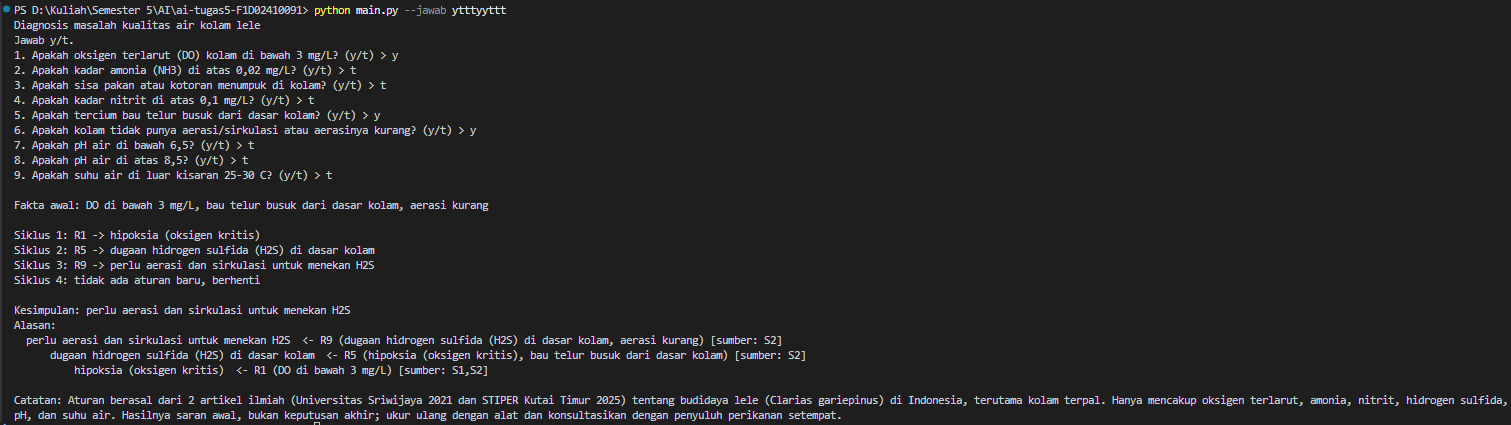
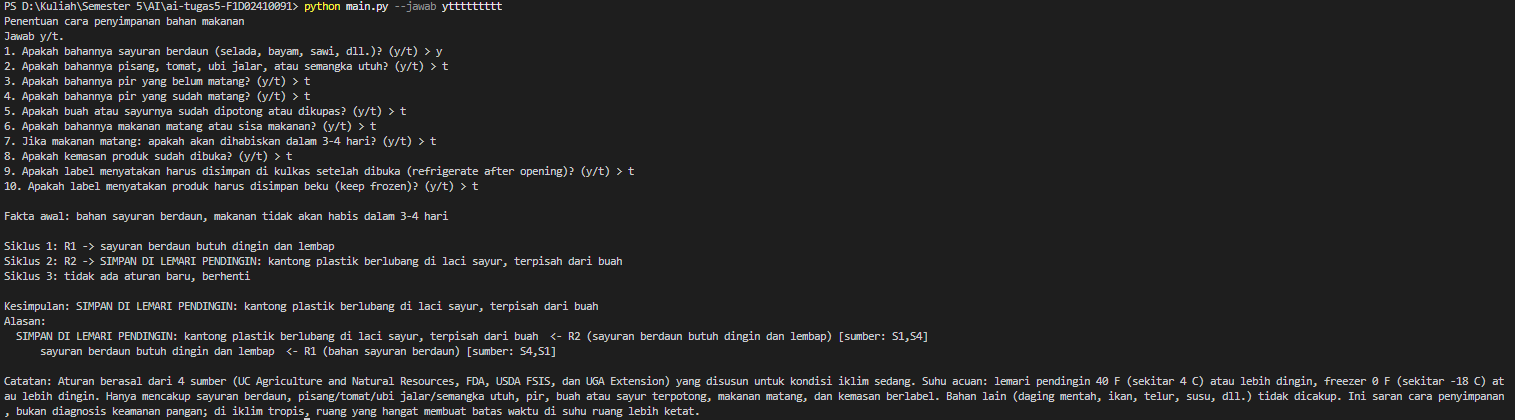
Penentu Cara Penyimpanan Bahan Makanan

Changed region(s): [[0.0, 0.0, 0.4044, 0.681], [0.0, 0.7119, 1.0, 1.0]]

diff --git a/uji.py b/uji.py
@@ -1,16 +1,30 @@
 from main import muat_kb, forward_chaining, kesimpulan_akhir
 
-kb = muat_kb("kb_lele.json")
+kb = muat_kb("kb_penyimpanan.json")
 
+LEMARI = "SIMPAN DI LEMARI PENDINGIN"
 KASUS = [
-    ("1 rantai 3 tingkat (H2S)", ["DO di bawah 3 mg/L", "bau telur busuk dari dasar kolam", "aerasi kurang"],
-     {"perlu aerasi dan sirkulasi untuk menekan H2S"}),
-    ("2 negatif (fakta ada, tidak ada aturan cocok)", ["sisa pakan menumpuk", "aerasi kurang"], set()),
-    ("3 amonia + hipoksia", ["DO di bawah 3 mg/L", "amonia di atas 0,02 mg/L", "sisa pakan menumpuk"],
-     {"amonia berasal dari sisa pakan dan limbah ikan", "kondisi kritis, ikan berisiko stres dan mati"}),
-    ("4 nitrit", ["nitrit di atas 0,1 mg/L"], {"nitrit berbahaya"}),
-    ("5 mode atau (pH tinggi)", ["pH di atas 8,5"], {"pH di luar batas ideal"}),
-    ("6 suhu", ["suhu di luar 25-30 C"], {"suhu di luar batas ideal"}),
+    ("1 sayuran berdaun (rantai R1->R2)", ["bahan sayuran berdaun"],
+     {"SIMPAN DI LEMARI PENDINGIN: kantong plastik berlubang di laci sayur, terpisah dari buah"}),
+    ("2 negatif (bahan tidak dicakup)", ["makanan tidak akan habis dalam 3-4 hari"], set()),
+    ("3 makanan matang, tidak habis 4 hari", ["bahan makanan matang atau sisa makanan", "makanan tidak akan habis dalam 3-4 hari"],
+     {"SIMPAN DI FREEZER: wadah tertutup dangkal, bagi dalam porsi kecil"}),
+    ("4 makanan matang, habis 4 hari", ["bahan makanan matang atau sisa makanan", "makanan akan habis dalam 3-4 hari"],
+     {"SIMPAN DI LEMARI PENDINGIN: wadah tertutup dangkal, habiskan dalam 3-4 hari"}),
+    ("5 pisang", ["bahan pisang, tomat, ubi jalar, atau semangka utuh"],
+     {"SIMPAN DI SUHU RUANG: jauhkan dari sinar matahari langsung, jangan di kulkas"}),
+    ("6 pir belum matang", ["bahan pir belum matang"],
+     {"SIMPAN DI SUHU RUANG sampai matang, jauhkan dari sinar matahari langsung"}),
+    ("7 pir sudah matang", ["bahan pir sudah matang"], {LEMARI + " dan pakai dalam 1-3 hari"}),
+    ("8 terpotong", ["buah atau sayur sudah dipotong atau dikupas"],
+     {LEMARI + " segera setelah dipotong atau dikupas"}),
+    ("9 kemasan dibuka + label kulkas", ["kemasan sudah dibuka", "label menyatakan simpan di kulkas setelah dibuka"],
+     {LEMARI + " sesuai label setelah kemasan dibuka"}),
+    ("10 label simpan beku", ["label menyatakan simpan beku"], {"SIMPAN DI FREEZER sesuai label (simpan beku)"}),
+    ("11 dua kesimpulan (daun + terpotong)", ["bahan sayuran berdaun", "buah atau sayur sudah dipotong atau dikupas"],
+     {"SIMPAN DI LEMARI PENDINGIN: kantong plastik berlubang di laci sayur, terpisah dari buah",
+      LEMARI + " segera setelah dipotong atau dikupas"}),
+    ("12 kemasan dibuka tanpa label kulkas (tidak ada kesimpulan)", ["kemasan sudah dibuka"], set()),
 ]
 
 gagal = 0

diff --git a/main.py b/main.py
@@ -46,27 +46,40 @@ def cetak_alasan(fakta, asal, indent=2):
             cetak_alasan(s, asal, indent + 4)
 
 
+
 def tanya_user(pertanyaan, jawaban_otomatis=None):
     fakta = []
+
     print("Jawab y/t.")
-    for i, (teks, tanya) in enumerate(pertanyaan.items(), 1):
+
+    for i, item in enumerate(pertanyaan, 1):
+        tanya = item["tanya"]
+
         while True:
             if jawaban_otomatis:
                 j = jawaban_otomatis[i - 1].lower()
                 print(f"{i}. {tanya} (y/t) > {j}")
             else:
                 j = input(f"{i}. {tanya} (y/t) > ").strip().lower()
+
             if j in ("y", "t"):
                 break
+
             print("   Ketik y atau t.")
-        if j == "y":
-            fakta.append(teks)
+
+        if j == "y" and "ya" in item:
+            fakta.append(item["ya"])
+
+        elif j == "t" and "tidak" in item:
+            fakta.append(item["tidak"])
+
     return fakta
+
 
 
 def main():
     ap = argparse.ArgumentParser()
-    ap.add_argument("--kb", default="kb_lele.json")
+    ap.add_argument("--kb", default="kb_penyimpanan.json")
     ap.add_argument("--jawab", help="string y/t, satu huruf per pertanyaan")
     args = ap.parse_args()
 

diff --git a/README.md b/README.md
@@ -1,59 +1,57 @@
-# Tugas 5 Kecerdasan Buatan: Sistem Pakar Kualitas Air Kolam Lele
+# Tugas 5 Kecerdasan Buatan: Sistem Pakar Penentuan Cara Penyimpanan Bahan Makanan
 
 - **Nama:** Rival Hosam Wilmadani
 - **NIM:** F1D02410091
 
 ## 1. Topik dan cara menjalankan
 
-Topik: **diagnosis masalah kualitas air kolam lele** (oksigen terlarut, amonia, nitrit, hidrogen sulfida, pH, suhu).
-Program membaca file aturan `kb_lele.json`, menanyakan fakta ke pengguna, lalu menyimpulkan dengan *forward chaining* yang mesinnya ditulis sendiri (`main.py`).
+Topik: **menentukan cara penyimpanan bahan makanan** (suhu ruang, lemari pendingin, atau freezer) berdasarkan jenis bahan, kondisi bahan, dan label kemasan. Fokusnya cara penyimpanan, bukan diagnosis keamanan pangan.
+Program membaca file aturan `kb_penyimpanan.json`, menanyakan fakta ke pengguna, lalu menyimpulkan dengan *forward chaining* yang mesinnya ditulis sendiri (`main.py`).
 
 - Bahasa: Python 3.8 ke atas, tanpa library tambahan (hanya `json` dan `argparse`).
-- Menjalankan (interaktif): `python main.py`
-- Menjalankan dengan jawaban otomatis (9 huruf y/t, urut sesuai pertanyaan): `python main.py --jawab ytttyyttt`
+- Menjalankan (interaktif, di terminal): `python main.py`
+- Menjalankan dengan jawaban otomatis: `python main.py --jawab ytttttttt` (satu huruf y/t per pertanyaan yang ditanyakan)
 - Menjalankan kasus uji otomatis: `python uji.py`
 
-Struktur repository:
+Pertanyaan "habis dalam 3-4 hari?" hanya ditanyakan bila bahannya makanan matang, sehingga jumlah huruf pada `--jawab` bisa 9 atau 10.
 
-```
-kb_lele.json   file aturan + sumber
-main.py        mesin forward chaining + antarmuka
-uji.py         kasus uji otomatis
-screenshot/    bukti tangkapan layar
-README.md
-```
+Struktur repository: `kb_penyimpanan.json` (aturan + sumber + pertanyaan), `main.py` (mesin FC), `uji.py` (kasus uji), `screenshot/`, `README.md`.
 
 ## 2. Sumber
 
 | Kode | Judul | Penerbit | URL | Diakses |
 |---|---|---|---|---|
-| S1 | Kualitas air kolam budidaya dan kolam terpal untuk pertumbuhan ikan Lele Sangkuriang pada kelompok pembudidaya ikan Lele di Kabupaten PALI Sumatera Selatan (Patriono, Amalia, Sitia, 2021) | Sriwijaya Bioscientia 2(3):83-88, Jurusan Biologi, Universitas Sriwijaya | https://doi.org/10.24233/sribios.2.3.2021.378 | 8 Nov 2026 |
-| S2 | Efektivitas Bakteri Fotosintetik Rhobac dalam Meningkatkan Kualitas Air pada Budidaya Ikan Lele di Kolam Terpal (Haryasakti, Rudyanto, Kaharuddin, Wahyudi, 2025) | Jurnal Pertanian Terpadu 13(1):43-52, Sekolah Tinggi Pertanian Kutai Timur | https://ojs.stiperkutim.ac.id/index.php/jpt/article/download/610/296 | 8 Nov 2026 |
+| S1 | Storing Fresh Fruits and Vegetables for Better Taste (Kader, Thompson, Sylva, Harris) | UC Agriculture and Natural Resources, Publication #21590 | https://ucanr.edu/sites/default/files/2011-07/115275.pdf | 13 Nov 2026 |
+| S2 | Refrigerator Thermometers: Cold Facts about Food Safety (FDA Facts, Januari 2017) | U.S. Food and Drug Administration | https://www.fda.gov/media/80676/download | 13 Nov 2026 |
+| S3 | Keep Food Safe! Food Safety Basics (lembar fakta; salinan arsip) | USDA Food Safety and Inspection Service, via UNT Web Archive | https://webarchive.library.unt.edu/web/20121014010316/http:/www.fsis.usda.gov/Fact_Sheets/Keep_Food_Safe_Food_Safety_Basics/index.asp | 13 Nov 2026 |
+| S4 | Quick Storage Guide for Vegetable Crops (Deltsidis), Circular 1205 | University of Georgia Cooperative Extension | https://fieldreport.caes.uga.edu/publications/C1205/quick-storage-guide-for-vegetable-crops/ | 13 Nov 2026 |
 
 ## 3. Tabel aturan
 
-`dan` = semua syarat harus ada, `atau` = salah satu cukup. Fakta yang tidak pernah menjadi hasil aturan ditanyakan ke pengguna.
+`dan` = semua syarat harus ada, `atau` = salah satu cukup. Fakta yang tidak pernah menjadi hasil aturan ditanyakan ke pengguna (jawaban "y" atau "t" menghasilkan fakta yang ditulis pada bagian `pertanyaan` di file aturan).
 
 | Aturan | IF | THEN | Sumber | Dasar di sumber |
 |---|---|---|---|---|
-| R1 | DO di bawah 3 mg/L | hipoksia (oksigen kritis) | S1, S2 | DO di bawah 3 mg/L menyebabkan hipoksia (S2) dan menghambat pertumbuhan, stres, sampai kematian (S1) |
-| R2 | amonia di atas 0,02 mg/L | amonia berbahaya | S2 | batas aman amoniak di kolam terpal umumnya kurang dari 0,02 mg/L |
-| R3 | amonia berbahaya **AND** sisa pakan menumpuk | amonia berasal dari sisa pakan dan limbah ikan | S2 | amoniak muncul dari penguraian sisa pakan dan limbah metabolik ikan |
-| R4 | nitrit di atas 0,1 mg/L | nitrit berbahaya | S2 | kadar nitrit aman kurang dari 0,1 mg/L |
-| R5 | hipoksia (oksigen kritis) **AND** bau telur busuk dari dasar kolam | dugaan hidrogen sulfida (H2S) di dasar kolam | S2 | H2S berbau telur busuk dan terbentuk pada kondisi rendah oksigen/anaerob |
-| R6 | pH di bawah 6,5 **OR** pH di atas 8,5 | pH di luar batas ideal | S1, S2 | pH ideal 6,5-8,5 (S2); S1 mencatat pertumbuhan optimal pada pH 6,5-9,0 |
-| R7 | suhu di luar 25-30 C | suhu di luar batas ideal | S1, S2 | kisaran suhu 25-30 C (S2); S1 memuat kisaran sejenis (misalnya 26-31 C) |
-| R8 | hipoksia (oksigen kritis) **AND** amonia berbahaya | kondisi kritis, ikan berisiko stres dan mati | S1, S2 | masing-masing hipoksia dan amonia tinggi menyebabkan stres dan kematian; aturan ini menggabungkan keduanya |
-| R9 | dugaan hidrogen sulfida (H2S) di dasar kolam **AND** aerasi kurang | perlu aerasi dan sirkulasi untuk menekan H2S | S2 | H2S tinggi dapat diatasi dengan aerasi dan sirkulasi |
+| R1 | bahan sayuran berdaun | sayuran berdaun butuh dingin dan lembap | S4, S1 | sayuran berdaun disimpan pada 32-41 F dengan kelembapan relatif di atas 95% (S4) |
+| R2 | sayuran berdaun butuh dingin dan lembap | SIMPAN DI LEMARI PENDINGIN: kantong plastik berlubang di laci sayur, terpisah dari buah | S1, S4 | produk dingin disimpan dalam kantong plastik berlubang di laci; pisahkan buah dari sayur karena etilen (S1, S4) |
+| R3 | bahan pisang, tomat, ubi jalar, atau semangka utuh | SIMPAN DI SUHU RUANG: jauhkan dari sinar matahari langsung, jangan di kulkas | S1 | pisang menghitam dan tidak manis, tomat kehilangan rasa, semangka kehilangan rasa dan warna di kulkas |
+| R4 | bahan pir belum matang | SIMPAN DI SUHU RUANG sampai matang, jauhkan dari sinar matahari langsung | S1 | pir menguning, lembut, dan manis di meja |
+| R5 | bahan pir sudah matang | SIMPAN DI LEMARI PENDINGIN dan pakai dalam 1-3 hari | S1 | setelah matang, pir dapat disimpan 1-3 hari di kulkas |
+| R6 | buah atau sayur sudah dipotong atau dikupas | SIMPAN DI LEMARI PENDINGIN segera setelah dipotong atau dikupas | S1 | produk potong siap saji disimpan di kulkas |
+| R7 | bahan makanan matang atau sisa makanan | makanan matang harus didinginkan dalam 2 jam (1 jam jika di atas 32 C) | S2, S3 | sisa makanan masuk kulkas atau freezer dalam 2 jam, 1 jam bila di atas 90 F (32 C) |
+| R8 | makanan matang harus didinginkan dalam 2 jam **AND** makanan akan habis dalam 3-4 hari | SIMPAN DI LEMARI PENDINGIN: wadah tertutup dangkal, habiskan dalam 3-4 hari | S2, S3 | wadah tertutup, bagi dalam wadah kecil; sisa makanan matang dipakai dalam 3-4 hari |
+| R9 | makanan matang harus didinginkan dalam 2 jam **AND** makanan tidak akan habis dalam 3-4 hari | SIMPAN DI FREEZER: wadah tertutup dangkal, bagi dalam porsi kecil | S2, S3 | freezer 0 F atau lebih dingin; makanan beku tetap aman, hanya kualitas yang bisa menurun |
+| R10 | kemasan sudah dibuka **AND** label menyatakan simpan di kulkas setelah dibuka | SIMPAN DI LEMARI PENDINGIN sesuai label setelah kemasan dibuka | S3 | contoh: mayones komersial berlabel "refrigerate after opening" |
+| R11 | label menyatakan simpan beku | SIMPAN DI FREEZER sesuai label (simpan beku) | S3 | contoh: makanan beku siap saji berlabel "keep frozen" |
 
-Ada 9 aturan dan 7 kesimpulan akhir. Rantai: R1 menghasilkan "hipoksia" yang dipakai R5 dan R8; R5 menghasilkan "dugaan H2S" yang dipakai R9; R2 menghasilkan "amonia berbahaya" yang dipakai R3 dan R8.
+Ada 11 aturan dengan 9 kesimpulan akhir: suhu ruang (R3, R4), lemari pendingin (R2, R5, R6, R8, R10), freezer (R9, R11). Rantai aturan: R1 ke R2, R7 ke R8, dan R7 ke R9.
 
 ## 4. Metode: Forward Chaining
 
-Dipilih karena pengguna sudah punya data pengukuran (DO, pH, suhu, dst.) dan ingin tahu kesimpulannya, sehingga alur dari fakta menuju kesimpulan paling natural.
+Dipilih karena pengguna mengetahui keadaan bahannya (jenis, kondisi, label) dan ingin tahu cara menyimpannya, sehingga alur dari fakta menuju kesimpulan paling natural.
 
 ```
-memori <- fakta yang dijawab "y"
+memori <- fakta dari jawaban pengguna
 ULANGI:
     cocok <- aturan yang syaratnya terpenuhi DAN hasilnya belum ada di memori
     JIKA cocok kosong: BERHENTI
@@ -62,47 +60,33 @@ ULANGI:
     catat r sebagai asal r.maka (beserta syarat yang ada saat itu)
 ```
 
-Kesimpulan akhir adalah fakta hasil aturan yang tidak dipakai sebagai syarat aturan lain yang dijalankan. Alasan ditampilkan dengan menelusuri `asal` dari kesimpulan akhir ke belakang.
+Kesimpulan akhir adalah fakta hasil aturan yang tidak dipakai sebagai syarat aturan lain yang dijalankan. Alasan ditampilkan dengan menelusuri `asal` dari kesimpulan akhir ke belakang. Pertanyaan "habis dalam 3-4 hari?" menghasilkan fakta berbeda untuk jawaban "y" dan "t" supaya R8 dan R9 tidak bertabrakan.
 
 ## 5. Kasus uji dan screenshot
 
-| # | Jawaban "ya" | Kesimpulan |
+| # | Jawaban | Kesimpulan |
 |---|---|---|
-| 1 | DO di bawah 3 mg/L, bau telur busuk dari dasar kolam, aerasi kurang | perlu aerasi dan sirkulasi untuk menekan H2S |
-| 2 | sisa pakan menumpuk, aerasi kurang | tidak ada (kasus negatif) |
-| 3 | DO di bawah 3 mg/L, amonia di atas 0,02 mg/L, sisa pakan menumpuk | amonia berasal dari sisa pakan dan limbah ikan; kondisi kritis, ikan berisiko stres dan mati |
+| 1 | sayuran berdaun | SIMPAN DI LEMARI PENDINGIN: kantong plastik berlubang di laci sayur, terpisah dari buah |
+| 2 | semua "t" | tidak ada (kasus negatif) |
+| 3 | makanan matang, tidak habis dalam 3-4 hari | SIMPAN DI FREEZER: wadah tertutup dangkal, bagi dalam porsi kecil |
 
-Contoh keluaran kasus 1:
+Perintah: `python main.py --jawab ytttttttt`, `python main.py --jawab ttttttttt`, dan `python main.py --jawab tttttytttt`.
 
-```
-Fakta awal: DO di bawah 3 mg/L, bau telur busuk dari dasar kolam, aerasi kurang
-
-Siklus 1: R1 -> hipoksia (oksigen kritis)
-Siklus 2: R5 -> dugaan hidrogen sulfida (H2S) di dasar kolam
-Siklus 3: R9 -> perlu aerasi dan sirkulasi untuk menekan H2S
-Siklus 4: tidak ada aturan baru, berhenti
-
-Kesimpulan: perlu aerasi dan sirkulasi untuk menekan H2S
-Alasan:
-  perlu aerasi dan sirkulasi untuk menekan H2S  <- R9 (dugaan hidrogen sulfida (H2S) di dasar kolam, aerasi kurang) [sumber: S2]
-      dugaan hidrogen sulfida (H2S) di dasar kolam  <- R5 (hipoksia (oksigen kritis), bau telur busuk dari dasar kolam) [sumber: S2]
-          hipoksia (oksigen kritis)  <- R1 (DO di bawah 3 mg/L) [sumber: S1,S2]
-```
-
-Screenshot:
-Kasus 1
+Kasus 1: Sayur berdaun (R1, R2)
 ![Kasus 1](screenshot/kasus1.png)
-Kasus 2
+Kasus 2: Makanan matang yang tidak akan habis dalam 3-4 hari (R7, R9)
 ![Kasus 2 (negatif)](screenshot/kasus2.png)
-Kasus 3
+Kasus 3: Pisang utuh (R3)
 ![Kasus 3](screenshot/kasus3.png)
+Kasus 4: Kemasan dibuka dan label meminta penyimpanan di kulkas (R10)
+![Kasus 4](screenshot/kasus4.png)
 
-`python uji.py` menjalankan 6 kasus (termasuk mode "atau" dan kasus negatif), semuanya lulus.
+`python uji.py` menjalankan 12 kasus (semua aturan, kasus dua kesimpulan sekaligus, dan dua kasus tanpa kesimpulan), semuanya lulus.
 
 ## 6. Batas keberlakuan
 
-Pengetahuan dalam sistem ini berasal dari dua artikel ilmiah tentang budidaya lele (*Clarias gariepinus*) di Indonesia, satu dari Universitas Sriwijaya dan satu dari Sekolah Tinggi Pertanian Kutai Timur, terutama untuk kolam terpal, dan dipakai untuk menduga masalah kualitas air berdasarkan oksigen terlarut, amonia, nitrit, hidrogen sulfida, pH, dan suhu. Sistem tidak mencakup penyakit ikan, pakan, salinitas, maupun jenis ikan lain, dan nilai ambang bisa berbeda antar sumber. Hasilnya adalah saran awal, bukan keputusan akhir; pembudidaya sebaiknya mengukur ulang dengan alat dan berkonsultasi dengan penyuluh perikanan.
+Pengetahuan dalam sistem ini berasal dari empat sumber: panduan penyimpanan buah dan sayur dari University of California (UC ANR) dan University of Georgia Extension, serta panduan penyimpanan makanan dari FDA dan USDA FSIS. Sumber-sumber ini disusun untuk kondisi iklim sedang, dengan acuan lemari pendingin 40 F (sekitar 4 C) atau lebih dingin dan freezer 0 F (sekitar -18 C) atau lebih dingin; di iklim tropis suhu ruang lebih hangat sehingga batas waktu di luar kulkas perlu lebih ketat. Sistem hanya mencakup sayuran berdaun, pisang/tomat/ubi jalar/semangka utuh, pir, buah atau sayur terpotong, makanan matang, dan kemasan berlabel; daging mentah, ikan, telur, susu, dan bahan lain tidak dicakup. Hasilnya adalah saran cara penyimpanan, bukan diagnosis keamanan pangan dan bukan keputusan akhir; periksa label produk dan panduan resmi setempat.
 
 ## 7. Penggunaan alat bantu AI
 
-Saya menggunakan AI untuk membantu dalam mencari dan membaca sumber, menyusun aturan, dan menulis kode serta README.
+Saya menggunakan AI untuk membantu mencari dan membaca sumber, menyusun aturan, dan menulis kode serta README.
